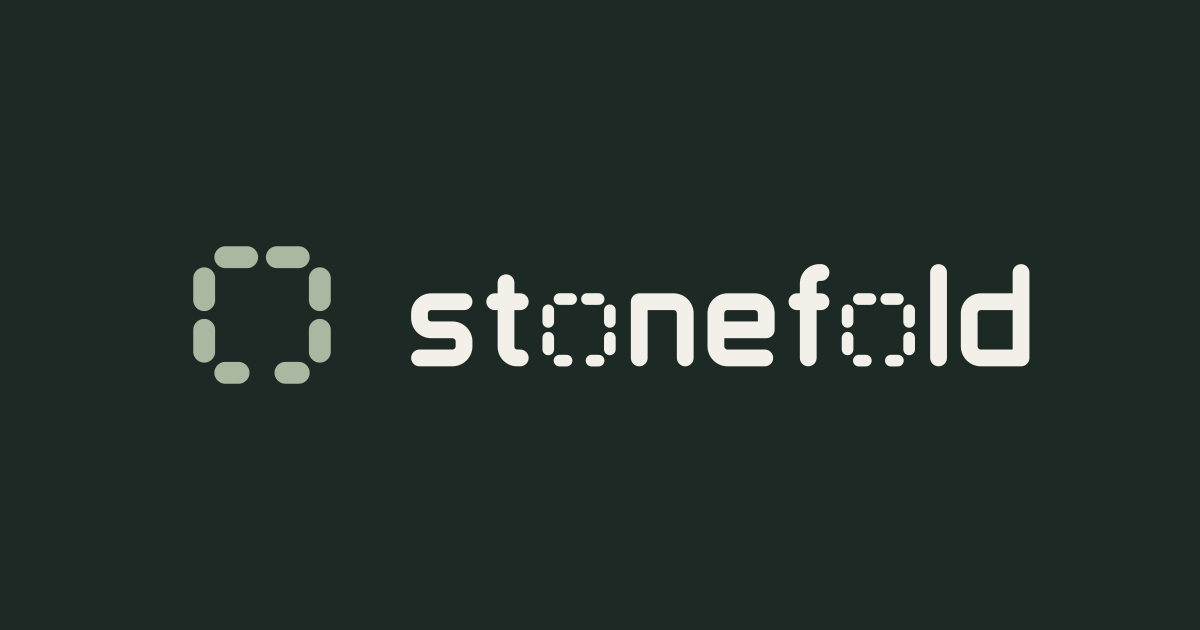
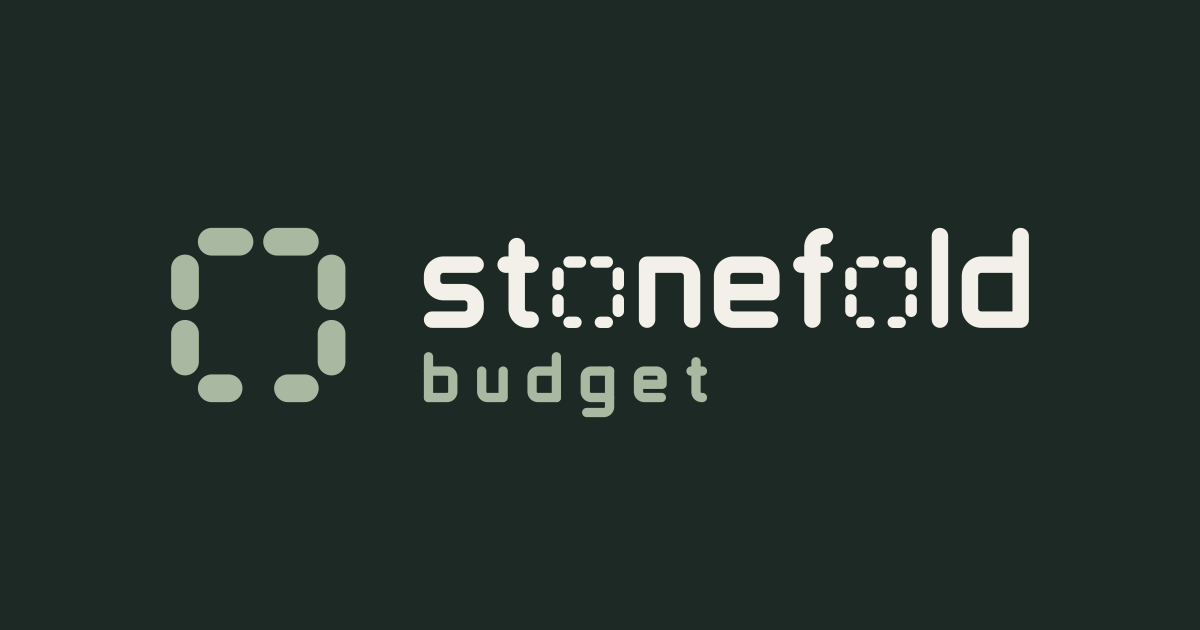
Link preview: the stacked "stonefold budget" lockup
og.png now shows the header's stacked name: the drawn "stonefold" at the
size it had before, a small "budget" under it in sage, and the mark spanning
both lines, on the same dark green. Stripped with strip-png.py.

Changed region(s): [[0.3392, 0.3619, 0.8633, 0.6635], [0.1233, 0.3619, 0.3083, 0.6333]]

diff --git a/README.md b/README.md
@@ -122,7 +122,7 @@ The owner asked for a light and dark switch on 2026-11-12, and chose a switch th
 The owner supplied the brand assets on 2026-11-12 (`stonefold-labs-brand-assets.zip`, made 2026-11-11): a mark, a full logo, and a palette of evergreen `#293B36`, sage `#A9B8A1`, warm ivory `#F2F0E8` and amber `#D5A96C`.
 
 - **The mark** is in the header of every page, beside the name. Since 2026-11-18 the name there and in the footer is "Stonefold", the app's name, on the owner's word ("change Stonefold Labs at the top of the website to just Stonefold"); the company's full name stays in the footer's "© 2026 Stonefold Labs LLC", the About section and the privacy page; the page titles say "Stonefold" too ("Privacy · Stonefold"). Since 2026-11-18 it is the new one: eight evenly spaced stones in a square fold with an opening at the bottom, and no star (the owner: "company mark too", after picking it for the app's icon). The two files in `docs/brand/` are copies of the app's `docs/brand/stonefold-labs-mark-light.svg` (evergreen) and `…-dark.svg` (sage), commit 7285e11 of the logo chat, unchanged and 256 across; the pages draw the same eight stones inline, so that the stones take **the theme's own accent, as the app's icon for each theme does** (`../StonefoldApp/Packages/ShellRules/Sources/ShellRules/AppIcons.swift`: the stones are the theme's accent): Sage `#a9b8a1`, Linen `#1f5143`, Night `#3381fa`, Ember `#cc7722`, Paper `#1f6f78`, Dusk `#c4a7f0`, Clay `#9e4426`, and for Plain (no accent in the app, so the site's own blue, as its buttons and links) `#0066cc` on a light device and `#2997ff` on a dark one. It is the `--mark` colour in `docs/styles.css`. Against each theme's header colour it measures at least 4.6 to 1 (Night and Plain in dark are the lowest; a picture's parts need 3). An `<img>` can't take a colour from the page, which is why it is inline. The earlier mark (stones, a ring and a star, moved to the middle on 2026-11-17) is in the git history.
-- **The name is drawn, not typed** (2026-11-18). The owner found the serif name beside the mark "too plain" and picked draft A of three ("A · Gate"): lowercase "stonefold" drawn from the mark's own parts, one stroke weight with round ends like the stones, square bowls with rounded corners, and the fold's gate at the bottom of both o's. It is one inline `<svg class="wordmark">` in each `.brand` link (header and footer), `role="img"` with `aria-label="Stonefold"`, stroked in `currentColor`, so it takes each theme's text colour while the stones keep the accent. It no longer changes font with the theme. No font is involved, so no licence question. The drawing and the script that makes it are in `../StonefoldApp/docs/drafts/wordmark/` (stroke 23 on an x-height of 100); the app's logo chat adds it to the brand files. **The two o's are the mark's own stones (2026-11-21, the owner: "make the two o's in the stonefold match the stones logo with the dashes").** Each is the mark's eight stones, the same rectangles as the corner mark, at 0.57 so the mark is about as tall as the other round letters; they are drawn in the text colour with the rest of the name, not the accent. The draft's squared o with a gate at the bottom is in the git history, and the drawing in `../StonefoldApp/docs/drafts/wordmark/` still has it. **The header's name is stacked (2026-11-27, the owner's pick of four drafts: "I like 4").** Under the drawn "stonefold" sits a small, spaced "budget", drawn from the same parts at half size (stroke 26 at 0.5, so 13 against the name's 23), left edges lined up, in the stones' colour (`.brand .wordmark .sub`, `var(--mark)`). The mark spans both lines: its square runs from the top of "stonefold" to the foot of "budget". It is one `<svg class="wordmark stacked">` with `aria-label="Stonefold budget"`, in the header only; the footer keeps the plain name. The four drafts, and the script that draws them, are in `../Stonefold/reports/2026-11-27-budget-lockups/`.
+- **The name is drawn, not typed** (2026-11-18). The owner found the serif name beside the mark "too plain" and picked draft A of three ("A · Gate"): lowercase "stonefold" drawn from the mark's own parts, one stroke weight with round ends like the stones, square bowls with rounded corners, and the fold's gate at the bottom of both o's. It is one inline `<svg class="wordmark">` in each `.brand` link (header and footer), `role="img"` with `aria-label="Stonefold"`, stroked in `currentColor`, so it takes each theme's text colour while the stones keep the accent. It no longer changes font with the theme. No font is involved, so no licence question. The drawing and the script that makes it are in `../StonefoldApp/docs/drafts/wordmark/` (stroke 23 on an x-height of 100); the app's logo chat adds it to the brand files. **The two o's are the mark's own stones (2026-11-21, the owner: "make the two o's in the stonefold match the stones logo with the dashes").** Each is the mark's eight stones, the same rectangles as the corner mark, at 0.57 so the mark is about as tall as the other round letters; they are drawn in the text colour with the rest of the name, not the accent. The draft's squared o with a gate at the bottom is in the git history, and the drawing in `../StonefoldApp/docs/drafts/wordmark/` still has it. **The header's name is stacked (2026-11-27, the owner's pick of four drafts: "I like 4").** Under the drawn "stonefold" sits a small, spaced "budget", drawn from the same parts at half size (stroke 26 at 0.5, so 13 against the name's 23), left edges lined up, in the stones' colour (`.brand .wordmark .sub`, `var(--mark)`). The mark spans both lines: its square runs from the top of "stonefold" to the foot of "budget". It is one `<svg class="wordmark stacked">` with `aria-label="Stonefold budget"`, in the header; the footer keeps the plain name. `docs/og.png` (1200×630, background `#1c2925`) shows the same stacked lockup, "stonefold" at the size it had there before, drawn by `og.py` in the same reports folder and run through `scripts/strip-png.py` (the owner's "Yes, update it", 2026-11-27). The four drafts, and the script that draws them, are in `../Stonefold/reports/2026-11-27-budget-lockups/`.
 - **The tab icon** (`docs/favicon.svg`) is the evergreen mark on a warm ivory tile, so it shows on a dark tab bar too. The tile is the only thing added. The app's own `favicon.svg` turns sage in dark mode with a `<style>`; the site's rules allow no styles in a picture, so the tile does that job. The PNG and icon set (`favicon.ico`, `favicon-16.png`, `favicon-32.png`, `apple-touch-icon.png`, `icon-192.png`, `icon-512.png` in `docs/`, and the bare mark at 16, 32, 180, 512 and 1024 pixels in `docs/brand/`) was added on 2026-11-18 at the owner's word ("add the PNG and icon set"). The app's `docs/brand/make-brand.swift` makes them; each goes through `scripts/strip-png.py`, which drops the Exif chunk the Mac's image library adds, and `scripts/check.py` now accepts `.png` and `.ico` only with nothing in them but the picture and its colour tag. Every page's head links `favicon.ico`, `favicon.svg` and `apple-touch-icon.png`. The tab icons (`favicon.ico` and the 16 and 32 PNGs) are the evergreen mark on the ivory tile, as is `favicon.svg`, so they read on a dark tab bar as well as a light one (the owner asked for this on 2026-11-18; the logo chat's bare-mark tab icons were hard to see on dark). They are drawn by a small script that is not in the repo (the stones are the app's numbers, the tile and the mark at 80% of it as in `favicon.svg`), so the PNGs carry only the picture and need no stripping. `icon-192.png` and `icon-512.png` are for a web app manifest, which the site doesn't have, so nothing uses them yet.
 - **The colours** in `docs/styles.css` start from the palette (Sage and Linen are it; the other six themes are the app's). Text contrast was measured: at least 5.3 to 1 everywhere, 10 to 1 or more for body text. In the evergreen band on Home the text is ivory or a pale sage, measured at 6.3 to 1 or more. Amber appears as the thin stripe along the top of every page, in Sage and Linen.
 - **A sibling of longlinelabs.com** (the owner, 2026-11-12: the two sites should look like companies made by the same person, without looking identical). Shared with Longline: the stripe along the top, the mark in its own corner at the top left with a rail below it that opens to show names (the owner, 2026-11-13, asking for the site to work like longlinelabs.com), a wordmark beside the mark (Stonefold's drawn from its own mark since 2026-11-18, where Longline's is serif), a short line above a large serif headline, a filled button, cards, hairlines between sections, a one-row footer. Stonefold's own: its mark, its greens and ivory, the four sections' signs standing on a stone wall in place of Longline's line of hooks, a rail that leads to the one app's sections where Longline's leads to its apps, an evergreen band for encryption, privacy and security, and no downloaded fonts. The rail opens with CSS alone, so it needs no second script. Longline's headings are set in Fraunces from Google; here they use a serif already on the reader's device (Iowan Old Style on Apple devices, which is also Longline's own fallback).

diff --git a/CLAUDE.md b/CLAUDE.md
@@ -19,7 +19,7 @@ This repo is the public website for stonefoldapp.com (the company is Stonefold L
 - **The app is not described as available** until it is, and no page links to a store until the store page exists. **Launch branch:** the pages say what the app does in the present tense, with no "coming" or "later", with one exception (the owner, 2026-11-22, "Make all four" to the marketing review's fixes): Home says under its headline "For iPhone, iPad, and Mac." (the owner's wording, 2026-11-27; it was "Coming to iPhone, iPad, and Mac."; "Not available yet." was on it for a few minutes and came off, the owner: "get rid of \"not available yet\""), and Questions answers "When is Stonefold out?" with "Not yet. It is being finished for iPhone and Mac, with no date set." No date or season anywhere. Both come off on launch day (`LAUNCH-BRANCH.md`). The one price on the site is the owner's: $29.99 (2026-11-25, "Yes, $29.99"; it was $24.99 from 2026-11-18, "$24.99 for both"), paid once, for iPhone, iPad and Mac together, said as "costs" on this branch; `scripts/check.py` refuses any other figure. On launch day the store link is added, in the hero buttons and nowhere else, and the check is loosened for that wording only (`LAUNCH-BRANCH.md`). The price waits, like the purchase promise's "one purchase covers iPhone and Mac", on the App Store record being set up that way.
 - **Names.** The app is **Stonefold**, the bare word, and the company is **Stonefold Labs** (the owner, 2026-11-13). On 2026-11-18, with the move to stonefoldapp.com, he had the wordmark in the header and footer changed to **Stonefold**; the page titles say "Stonefold" too ("Privacy · Stonefold"), the owner's word the same day. "Stonefold Labs" stays in About, the legal line and the Privacy page. The five apps' names (Bellwether Budget and the rest) are retired and appear nowhere. One exception, the owner's of 2026-11-22 ("use bellwether"): the plain word "bellwether", in lower case, for the sheep the rest of the flock follows, as About told the name's story until 2026-11-22, when that sentence came out (the exception stays, unused); `scripts/check.py` still refuses "Bellwether" as a name and "Bellwether Budget". The game inside the app is mentioned only by the owner's line, word for word: "There is a small flock in here somewhere." **Launch version:** that line is gone from Home too, on the owner's word of 2026-11-21 ("You can get rid of there is a flock in here somewhere"), so no page mentions the game; `scripts/check.py` still refuses any other mention.
 - **The company's legal name** is **Stonefold Labs LLC**, a Florida limited liability company (Sunbiz document number L26000574352, filed 2026-11-12, approved and reported by the owner on 2026-11-17). Each page's footer carries "© 2026 Stonefold Labs LLC", and the privacy page says Stonefold Labs LLC runs the website. `COMPANY_FORMED` in `scripts/check.py` is `True`, so the check fails any page without the full name. The full logo (it reads "STONEFOLD LABS LLC" in Avenir Next) stays off the site until its words are outlines and the font's licence is confirmed (`PUBLISHING.md` Part 8).
-- **The brand is the owner's.** The mark in `docs/brand/` is the one he picked and the app's logo chat exported (`../StonefoldApp/docs/brand/`, commit 7285e11): eight evenly spaced stones in a square fold with an opening at the bottom, and no star. He chose it for the app's icon on 2026-11-18 ("Lets just do the 8 dashes and get rid of the star"), then made it the company's mark: "company mark too" (house rules §8). It replaces the earlier mark, which he supplied on 2026-11-12 and approved moving to the middle on 2026-11-17. Don't redraw it: its shapes are the app's `docs/brand/` files', and the only thing the site changes is the colour of the stones, to each theme's own accent, as the app's icons do (the owner noticed on 2026-11-18 that a mark that stays one colour doesn't follow the theme). The pages draw it inline, with the stones in the current theme's accent, as the app's icon for each theme does (`README.md`, "The brand" lists them); the two files in `docs/brand/` are the supplied artwork and are not referenced by a page. The tab icon is the evergreen mark on a warm ivory tile, which shows on a dark tab bar too; the app's own favicon uses a `<style>` for dark mode, which the site's picture rules don't allow. The PNG and `.ico` icon set (2026-11-18) is allowed too, but only after `scripts/strip-png.py`. Colours come from the owner's palette (`README.md`, "The brand") and, for the themes, the app's (`README.md`, "The theme picker"). The full logo says "LLC" and sets words in a font, so it stays off the site until its words are outlines. A picture is one `.svg` of this site, with `alt`, `width` and `height`; the one exception is pictures of the app (below). **The wordmark's two o's are the mark's stones** (the owner, 2026-11-21); the rest of the name is as drawn on 2026-11-18. **In the header the name is stacked over a small "budget"** (the owner, 2026-11-27, picking draft 4 of four: "I like 4"; `README.md`, "The brand"); the footer, the link preview and the tab icon keep the plain name.
+- **The brand is the owner's.** The mark in `docs/brand/` is the one he picked and the app's logo chat exported (`../StonefoldApp/docs/brand/`, commit 7285e11): eight evenly spaced stones in a square fold with an opening at the bottom, and no star. He chose it for the app's icon on 2026-11-18 ("Lets just do the 8 dashes and get rid of the star"), then made it the company's mark: "company mark too" (house rules §8). It replaces the earlier mark, which he supplied on 2026-11-12 and approved moving to the middle on 2026-11-17. Don't redraw it: its shapes are the app's `docs/brand/` files', and the only thing the site changes is the colour of the stones, to each theme's own accent, as the app's icons do (the owner noticed on 2026-11-18 that a mark that stays one colour doesn't follow the theme). The pages draw it inline, with the stones in the current theme's accent, as the app's icon for each theme does (`README.md`, "The brand" lists them); the two files in `docs/brand/` are the supplied artwork and are not referenced by a page. The tab icon is the evergreen mark on a warm ivory tile, which shows on a dark tab bar too; the app's own favicon uses a `<style>` for dark mode, which the site's picture rules don't allow. The PNG and `.ico` icon set (2026-11-18) is allowed too, but only after `scripts/strip-png.py`. Colours come from the owner's palette (`README.md`, "The brand") and, for the themes, the app's (`README.md`, "The theme picker"). The full logo says "LLC" and sets words in a font, so it stays off the site until its words are outlines. A picture is one `.svg` of this site, with `alt`, `width` and `height`; the one exception is pictures of the app (below). **The wordmark's two o's are the mark's stones** (the owner, 2026-11-21); the rest of the name is as drawn on 2026-11-18. **In the header the name is stacked over a small "budget"** (the owner, 2026-11-27, picking draft 4 of four: "I like 4"; `README.md`, "The brand"); `/og.png`, the link preview, shows the same stacked name (the owner's "Yes, update it", the same day); the footer and the tab icon keep the plain name.
 - **A sibling of longlinelabs.com, not a twin.** The owner wants the two companies' sites to look made by the same person (`README.md`, "The brand"). Keep the shared shape; never borrow Longline's scripts, its Google fonts, or its colours.
 - **Canonical links and the sitemap** (2026-11-24, Batch 4 of the pre-launch review). Every page but the "not here" page has one `<link rel="canonical">` to its own full address at https://stonefoldapp.com (the same as its `og:url`; an old guide address names the guide), and `docs/sitemap.xml` lists the pages a person reads, with no dates. `scripts/check.py` requires both and rebuilds the sitemap to compare; after adding or removing a page, run `python3 -I scripts/check.py --sitemap`. `robots.txt` is left as it was.
 - **The host adds nothing.** GitHub Pages, with stonefoldapp.com on Cloudflare "DNS only". The old address stonefoldlabs.com is proxied by Cloudflare only to send readers on to stonefoldapp.com, and the privacy page says so. Mail stays at `support@stonefoldlabs.com`: its records are never touched and never proxied. If hosting ever changes, `scripts/check-live.sh` must still pass and the privacy page must still be true.
